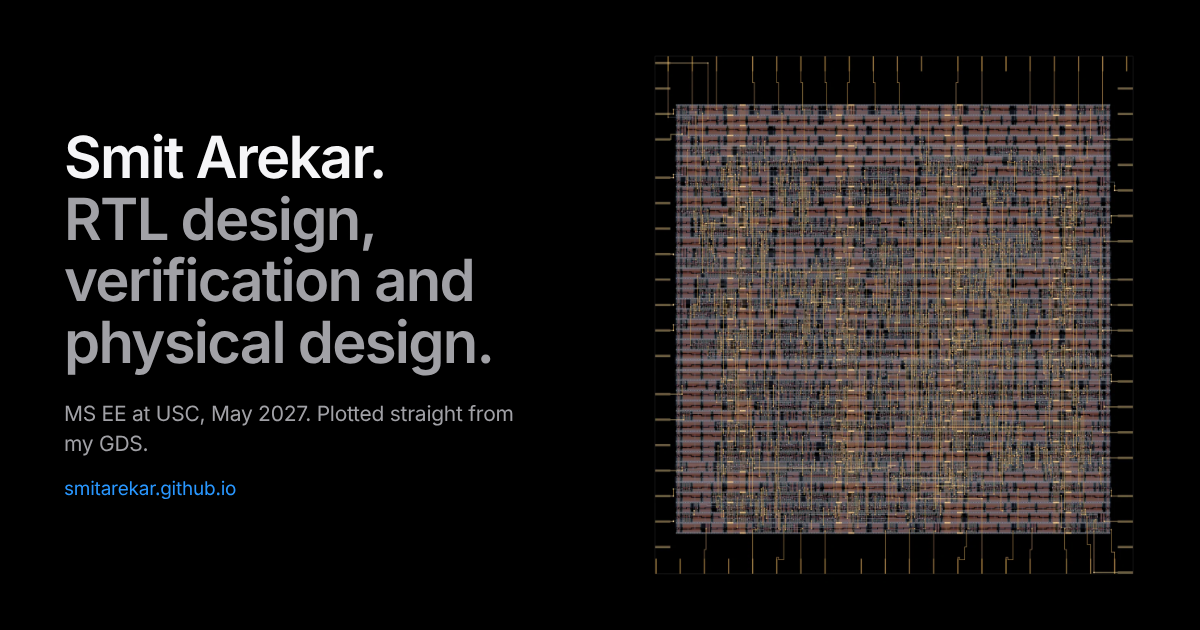
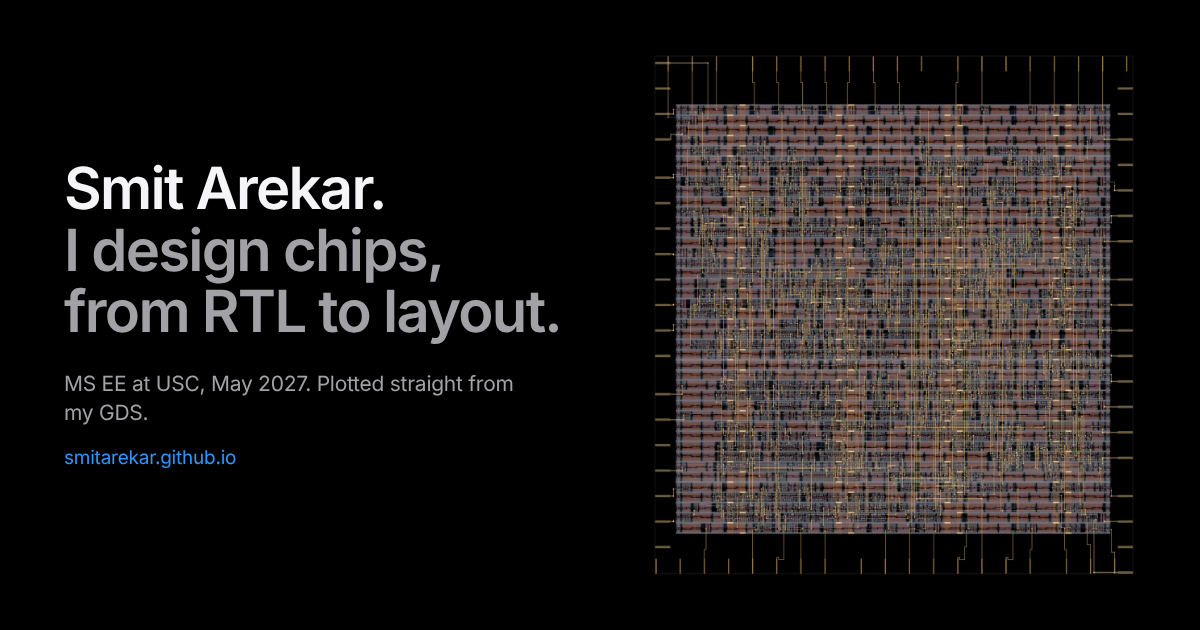
Hero: name once, one simple line; rename Shipped heading
The hero now reads "Smit Arekar." and "I design chips, from RTL to
layout." with nothing else above the actions. The nav keeps its name
hidden until the hero headline scrolls away, so the name shows once.
"Before grad school, it shipped." becomes "Hardware that shipped."
Page title, link preview text and the share image match.

Claude-Session: https://claude.ai/code/session_01VzLYRH6MBY9S73KgAy4A2h

Changed region(s): [[0.0308, 0.2111, 0.4625, 0.7841]]

diff --git a/index.html b/index.html
@@ -3,15 +3,15 @@
 <head>
 <meta charset="utf-8">
 <meta name="viewport" content="width=device-width, initial-scale=1, viewport-fit=cover">
-<title>Smit Arekar · RTL, verification and physical design</title>
+<title>Smit Arekar · I design chips, from RTL to layout</title>
 <meta name="description" content="Smit Arekar designs, verifies and lays out digital hardware: a RISC-V core, GPU kernels, a systolic array, AXI4, PCIe and an RTL-to-GDSII UART. MS Electrical Engineering at USC, graduating May 2027.">
 <meta name="theme-color" content="#000000">
 <meta name="color-scheme" content="dark">
 <link rel="canonical" href="https://smitarekar.github.io/">
 <meta property="og:type" content="website">
 <meta property="og:url" content="https://smitarekar.github.io/">
-<meta property="og:title" content="Smit Arekar · Engineering from the transistor up">
-<meta property="og:description" content="RTL design, verification and physical design. Nine projects on one die, from a RISC-V core to a routed Sky130 layout.">
+<meta property="og:title" content="Smit Arekar · I design chips, from RTL to layout">
+<meta property="og:description" content="Nine chip projects on one die, from a RISC-V core to a routed Sky130 layout. MS Electrical Engineering at USC, May 2027.">
 <meta property="og:image" content="https://smitarekar.github.io/assets/img/og.png">
 <meta property="og:image:width" content="1200">
 <meta property="og:image:height" content="630">
@@ -67,8 +67,7 @@
   <section class="hero" id="top" aria-labelledby="hero-title">
     <div class="hero-grid">
       <div class="hero-copy">
-        <h1 class="hero-title" id="hero-title"><span class="hero-name">Smit Arekar.</span> RTL design, verification and physical&nbsp;design.</h1>
-        <p class="hero-sub">MS Electrical Engineering at USC, graduating May&nbsp;2027, after two years shipping FPGA instruments at Borosil Scientific.</p>
+        <h1 class="hero-title" id="hero-title"><span class="hero-name">Smit Arekar.</span> I design chips, from RTL to&nbsp;layout.</h1>
         <div class="hero-actions">
           <a class="pill" href="#work">See the work</a>
           <a class="link-chev" href="mailto:arekar@usc.edu">Email me<svg class="i" aria-hidden="true"><use href="#i-chev"/></svg></a>
@@ -373,7 +372,7 @@
 
   <section class="shipped" id="shipped" aria-labelledby="shipped-title">
     <header class="section-head">
-      <h2 class="h-section" id="shipped-title">Before grad school, it shipped.</h2>
+      <h2 class="h-section" id="shipped-title">Hardware that shipped.</h2>
       <p class="lead">Two years at Borosil Scientific in Pune turning FPGA designs into lab instruments, including one I invented and patented. Before that, an internship on a defense DSP pipeline.</p>
     </header>
 

diff --git a/css/site.css b/css/site.css
@@ -146,6 +146,10 @@ p { text-wrap: pretty; }
   letter-spacing: -0.015em;
 }
 .nav-name:hover { text-decoration: none; color: #fff; }
+/* The name shows once: the hero carries it, and the nav takes it over after the hero's headline scrolls away */
+.js .nav-name { transition: opacity 0.3s ease, visibility 0s linear 0.3s; }
+.js .nav:not(.is-past-hero) .nav-name { opacity: 0; visibility: hidden; }
+.js .nav.is-past-hero .nav-name { transition: opacity 0.3s ease; }
 
 .nav-links { display: flex; gap: 30px; margin: 0; padding: 0; list-style: none; font-size: 0.8125rem; }
 .nav-links a {
@@ -264,7 +268,7 @@ p { text-wrap: pretty; }
   margin: 0 auto;
 }
 
-/* Two-tone headline: the name in white, the discipline in grey, one size and one weight */
+/* Two-tone headline: the name in white, the one-liner in grey, one size and one weight */
 .hero-title {
   margin: 0;
   color: var(--text-2);
@@ -275,16 +279,6 @@ p { text-wrap: pretty; }
   text-wrap: balance;
 }
 .hero-name { display: block; color: var(--text); }
-
-.hero-sub {
-  max-width: 23em;
-  margin: 1.35rem 0 0;
-  color: var(--text-2);
-  font-size: clamp(1.0625rem, 0.98rem + 0.35vw, 1.25rem);
-  line-height: 1.45;
-  letter-spacing: -0.013em;
-  text-wrap: balance;
-}
 
 .hero-actions {
   display: flex;

diff --git a/js/site.js b/js/site.js
@@ -86,8 +86,10 @@
   });
 
   const navTargets = navLinks.map((a) => ({ a, el: doc.getElementById(a.hash.slice(1)) })).filter((t) => t.el);
+  const heroTitle = $("#hero-title");
   function updateNav() {
     nav.classList.toggle("is-scrolled", scrollY > 8);
+    nav.classList.toggle("is-past-hero", heroTitle.getBoundingClientRect().bottom < nav.offsetHeight);
     const line = innerHeight * 0.4;
     let current = null;
     for (const t of navTargets) if (t.el.getBoundingClientRect().top <= line) current = t;
